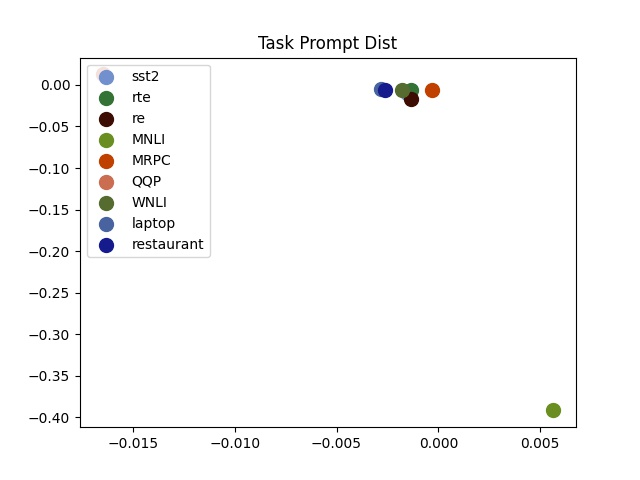
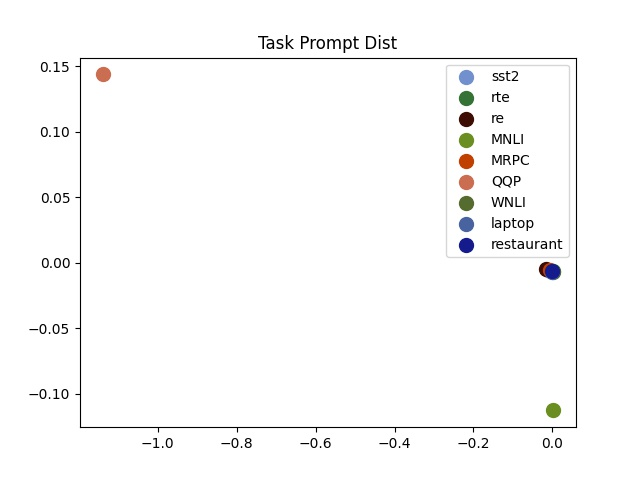
update

diff --git a/draw_cuda_taskprompt.py b/draw_cuda_taskprompt.py
@@ -96,7 +96,7 @@ def train_AE(input=None, out_features=None):
     criterion = nn.MSELoss()
 
     epochs=10
-    iterations=50
+    iterations=100
     model.train()
     for epoch in range(epochs):
         loss = 0
@@ -371,7 +371,6 @@ blocked_list = [5,8]
 #plot on 3D: https://www.delftstack.com/zh-tw/howto/matplotlib/scatter-plot-legend-in-matplotlib/#%25E5%259C%25A8-matplotlib-3d-%25E6%2595%25A3%25E9%25BB%259E%25E5%259C%2596%25E4%25B8%258A%25E6%2596%25B0%25E5%25A2%259E%25E5%259C%2596%25E4%25BE%258B
 
 
-axes=0
 if dim ==3:
     axes = plt.subplot(111, projection='3d')
     #axes = plt.subplot(222, projection='3d')
@@ -393,8 +392,8 @@ for task_id, task_name in task_map.items():
         exit()
 
 
-#plt.legend()
-plt.legend(loc="upper left")
+plt.legend()
+#plt.legend(loc="upper left")
 plt.title("Task Prompt Dist")
 #plt.savefig('output.pdf')
 plt.savefig('output.jpg')
